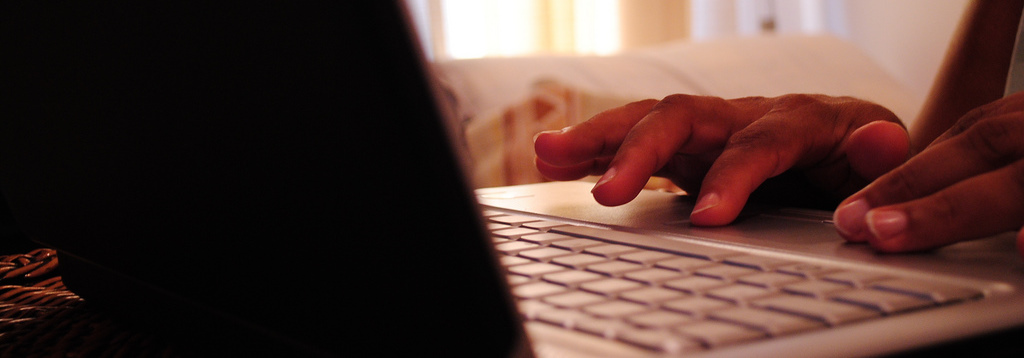
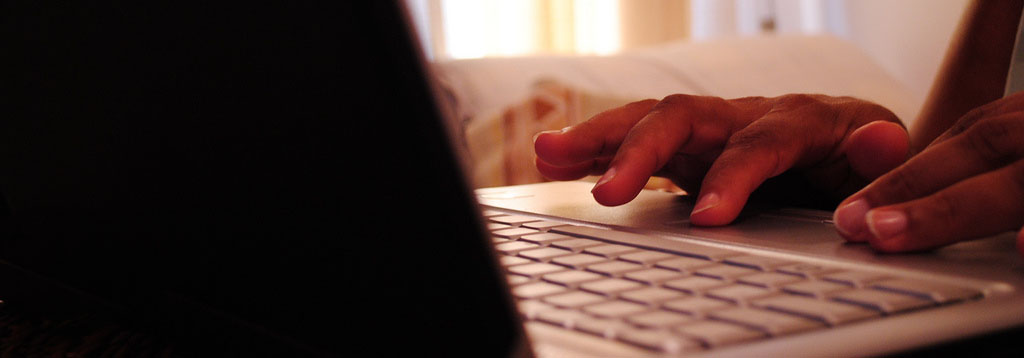
home page styling

Changed region(s): [[0.0, 0.676, 0.0938, 0.9218]]

diff --git a/css/styles.css b/css/styles.css
@@ -1,9 +1,45 @@
-.page-header h1 {
+.page-header {
+	border-bottom: none;
+}
+
+.page-header h1 a {
+	display: block;
 	text-indent: -999em;
 	overflow: hidden;
 	width: 192px;
 	height: 50px;
 	background-image: url(/img/logo.png);
+	margin-left: 12px;
+}
+
+.hero {
+	background-image: url(/img/keyboard.jpg);
+	background-size: cover;
+	min-height: 150px;
+	margin-bottom: 1em;
+}
+
+.hero strong {
+	display: block;
+	width: 30%;
+	padding: 2em 24px;
+	font-family: Georgia;
+	font-size: 1.8em;
+	line-height: 1.5;
+	font-style: italic;
+	font-weight: normal;
+	color: #fff;
+}
+
+.content {
+	padding: 12px;
+	font-size: 16px;
+	line-height: 1.8;
+}
+
+.content p {
+	font-family: Georgia;
+	margin: 1.25em 0;
 }
 
 label {

diff --git a/template.php b/template.php
@@ -10,10 +10,15 @@
 	<?php include "header.php"; ?>
 	<div class="row">
 		<div class="span8">
+			<?php include "hero.php"; ?>
 			<?php include "nav-tabs.php"; ?>
-				
-				<!-- CONTENT GOES HERE -->
-				
+			
+			<div class="content">
+				<p>We support educated people in low income countries to provide and sell services to the markets of high income countries.</p>
+				<a class="btn btn-large btn-primary" href="#">Create a job</a> <a class="btn btn-large btn-primary" href="#">Become a partner</a>
+				<p>Or <a href="#">learn more about us</a> and what we do.</p>
+			</div>
+			
 		</div> <!-- /.span8 -->
 		<?php include "sidebar.php"; ?> 
 	</div> <!-- /.row -->

diff --git a/header.php b/header.php
@@ -1,5 +1,5 @@
 <header class="page-header">
-	<h1>Transfair</h1>
+	<h1><a href="/">Transfair</a></h1>
 </header>
 
 

diff --git a/application/views/templates/header.php b/application/views/templates/header.php
@@ -1,3 +1,3 @@
 <header class="page-header">
-	<h1>Transfair</h1>
+	<h1><a href="/">Transfair</a></h1>
 </header>

diff --git a/hero.php b/hero.php
@@ -1,0 +1,3 @@
+<div class="hero">
+	<strong>Help the world to help you</strong>
+</div>
